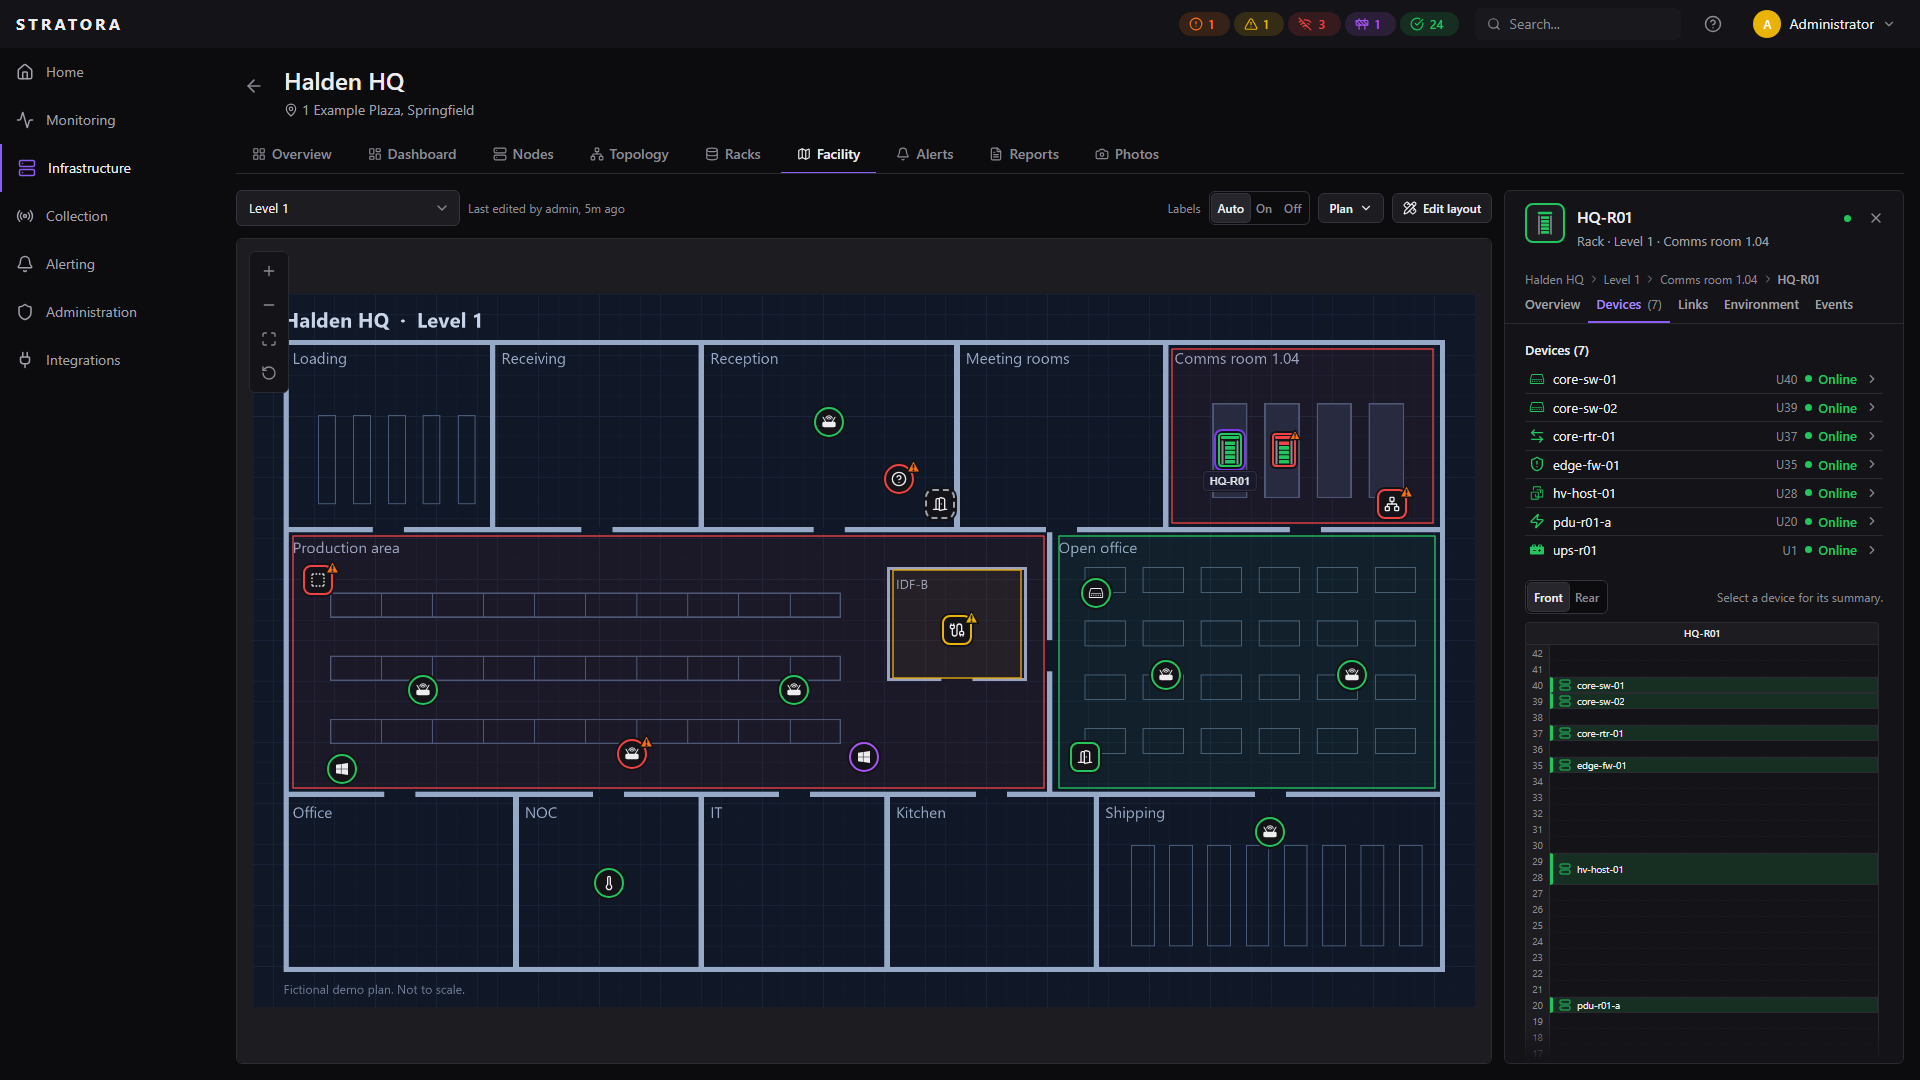
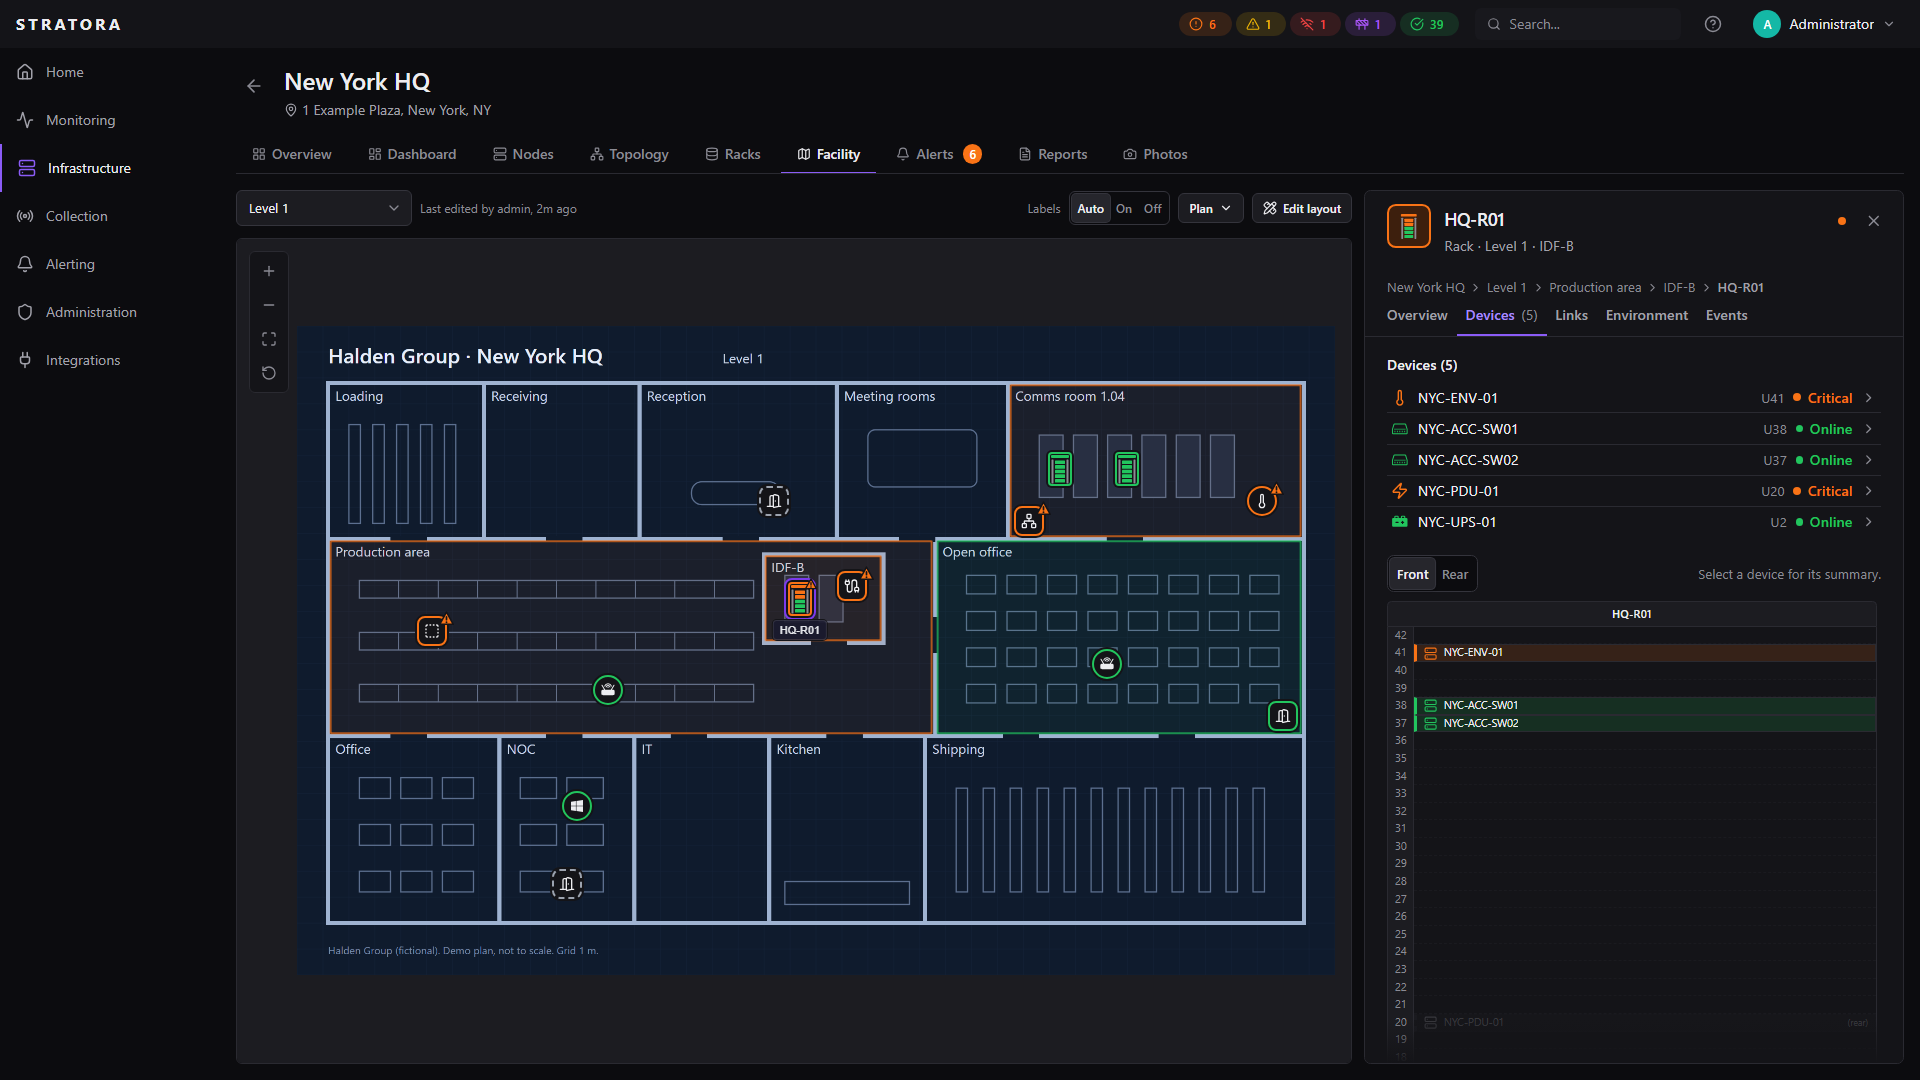
docs: refresh screenshots for 2.5.3

diff --git a/docs/monitoring/facility-maps.md b/docs/monitoring/facility-maps.md
@@ -35,6 +35,9 @@ See [User Roles & Permissions](../administration/user-roles-and-permissions.md).
 2. Click **Upload a floor plan**. Choose the floor (or **New floor…** to create one) and the plan: an image, or a PDF.
    - An image must be **PNG or JPEG**, up to **25 MB**, **8192 px** on the longest side and 40 megapixels in all.
    - From a **PDF** (up to 50 MB and 200 pages), you import one page: pick it in the preview. Your browser converts that page to a PNG image and uploads the image. The PDF itself is never sent to the server. Password-protected PDFs are refused, and a PDF that is too complex to convert asks you to export the page as PNG instead. **Cancel** stops a conversion at any time.
+
+   ![Upload a floor plan: a two-page PDF, with page 2 chosen in the preview](/img/monitoring/facility-upload-pdf.png)
+
    - If the site has no buildings or floors yet, the first upload creates "Main building" and "Ground floor". You can rename and add more in **Buildings and floors**.
 3. Add the spaces you want to show (closets, MDFs, IDFs, server rooms, rooms and areas) in **Plan → Buildings and floors → Add a space**. Spaces go under a floor. A floor or an area can hold every type of space, so an IDF can sit inside a production area; any other space can hold rooms, closets and areas.
 4. Click **Edit layout** and place your nodes, racks and spaces on the plan (see [Editing the layout](#editing-the-layout)). Click **Save**.
@@ -143,7 +146,7 @@ The power and environmental devices in the space or rack, with their status and 
 - **PDU**: input voltage, power and current;
 - **Environmental sensor**: temperature and humidity per sensor.
 
-![Environment tab for the network closet IDF-B: a UPS with its battery, runtime and load, and a temperature sensor reading 36 °C](/img/monitoring/facility-space-environment.png)
+![Environment tab for the network closet IDF-B: a UPS with its battery, runtime and load, and a temperature sensor reading 42 °C](/img/monitoring/facility-space-environment.png)
 
 Readings come from devices that use the UPS, rack PDU and environmental sensor templates (see [Power and environment templates](#power-and-environment-templates)). For other devices the panel says that no readings are collected for that device type. A reading is only shown while fresh data arrives: a device that stops reporting shows no reading rather than an old value. Temperatures follow your temperature unit setting.
 
@@ -210,11 +213,17 @@ The **Plan** menu (desktop) holds:
 - **Set scale** and **Clear scale**: see [Setting the scale](#setting-the-scale).
 - **Delete plan**: removes the plan image and its markers, after asking. The floor stays.
 
+![The Plan menu on the Facility tab](/img/monitoring/facility-plan-menu.png)
+
 Deleting a plan, floor, building or site also removes its plan image files. Deleting a rack, space or site removes its photos.
 
 ### Setting the scale
 
 **Plan → Set scale** calibrates a plan to real distances. Draw a line between two points on the plan whose distance you know, for example the two ends of a wall, and enter that length in metres or feet. The plan then shows a scale bar, and a space with an outline shows its real width, depth and floor area. **Plan → Clear scale** removes the scale, after asking.
+
+![Set the plan's scale: the line drawn on the plan is 599 px long, entered as 12 metres](/img/monitoring/facility-set-scale.png)
+
+![A calibrated plan with its scale bar in the bottom-left corner](/img/monitoring/facility-scale-bar.png)
 
 When you replace the image of a calibrated plan, the scale is kept if the new image has the same proportions, and cleared if it does not.
 
@@ -226,9 +235,13 @@ Dashboards have a **Facility Floor Plan** panel, in the builder's **Maps & Topol
 
 The panel is read-only: nothing can be placed or moved from a dashboard. Zoom with the **+** and **−** buttons (or pinch on a touch screen); scrolling over the panel scrolls the dashboard. If the plan was deleted, or has no image yet, the panel says so. Viewers can see the panel, because they can see floor plans. See [Dashboards](./dashboards.md).
 
+![A dashboard with a Facility Floor Plan panel next to power and environment status](/img/monitoring/facility-dashboard-panel.png)
+
 ## The node side panel elsewhere
 
 The node side panel is not only on the Facility tab. Clicking a node on a dashboard's topology map, rack or rack topology panel, on a topology map's view page, or on a site's **Topology** and **Racks** tabs opens the same node side panel, with the same tabs and actions, while the dashboard or map stays in place underneath. **Open node page** in the panel goes to the node's page. In a dashboard's edit mode a click still opens the node page.
+
+![The node side panel opened from a Facility Floor Plan panel on a dashboard](/img/monitoring/facility-dashboard-node-panel.png)
 
 ---
 
